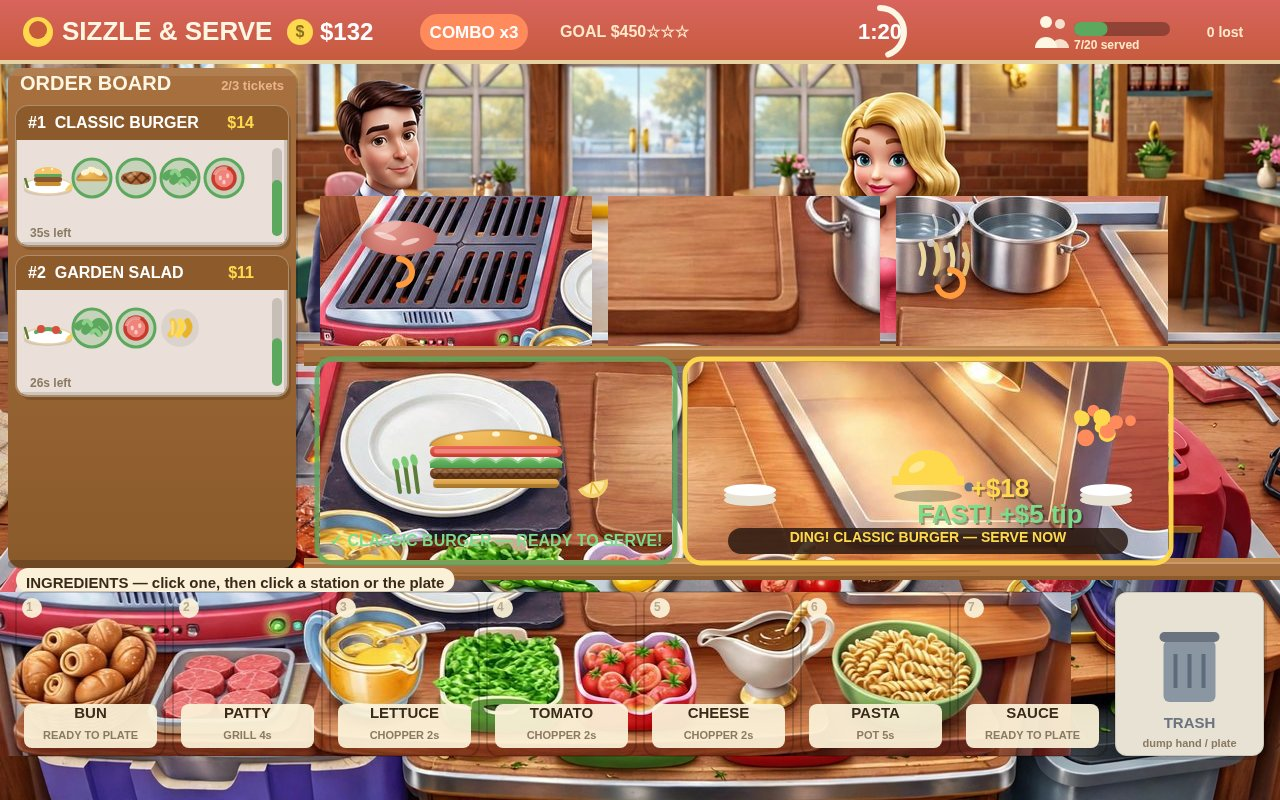
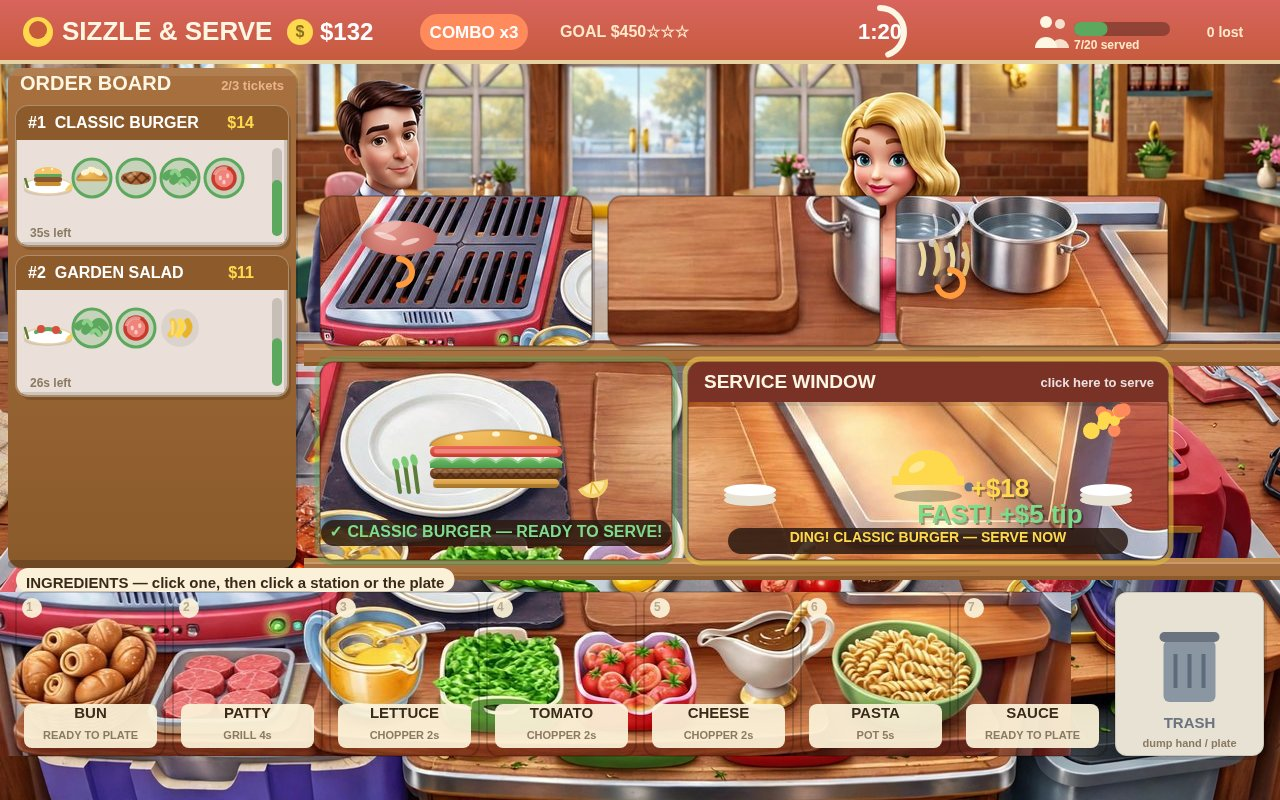
Fix 3 defects: framed photo panels (rounded corners + shadow + border), plate hint text on dark pill, SERVICE WINDOW title bar restored in photo mode

Changed region(s): [[0.2188, 0.375, 0.9375, 0.7188], [0.6875, 0.2812, 0.7188, 0.3438]]

diff --git a/game/src/render.js b/game/src/render.js
@@ -237,6 +237,24 @@ for (const [key, file] of Object.entries(SPRITE_FILES)) {
   img.onerror = () => { if (++spritesSettled === Object.keys(SPRITE_FILES).length) window.__spritesReady = true; };
   img.src = file;
 }
+// Photo tiles as framed panels: rounded corners + drop shadow + thin border,
+// so a 3D photo reads as a panel sitting on the counter — not a pasted
+// rectangle slicing through the staff behind it. Clipping never moves the
+// image, so the photo-aligned food anchors below stay valid.
+function drawPhotoPanel(ctx, img, rect) {
+  ctx.fillStyle = 'rgba(0,0,0,0.18)';
+  rr(ctx, rect.x + 3, rect.y + 5, rect.w, rect.h, 14);
+  ctx.fill();
+  ctx.save();
+  rr(ctx, rect.x, rect.y, rect.w, rect.h, 14);
+  ctx.clip();
+  ctx.drawImage(img, rect.x, rect.y, rect.w, rect.h);
+  ctx.restore();
+  ctx.strokeStyle = 'rgba(60,35,20,0.35)';
+  ctx.lineWidth = 2;
+  rr(ctx, rect.x, rect.y, rect.w, rect.h, 14);
+  ctx.stroke();
+}
 // Food anchors measured from the 3D scene (photo slot centres). The layout
 // rects never move - only the food's draw position is photo-aligned;
 // clicks still use the whole station rect.
@@ -882,7 +900,7 @@ function drawStationBase(ctx, rect, label, sub, accent) {
 function drawGrill(ctx, hover) {
   const photo = sprites.grill.ready;
   if (photo) {
-    ctx.drawImage(sprites.grill.img, GRILL.x, GRILL.y, GRILL.w, GRILL.h);
+    drawPhotoPanel(ctx, sprites.grill.img, GRILL);
   } else {
   drawStationBase(ctx, GRILL, 'GRILL', 'patty · 4s', '#c65a3c');
   // Red machine frame + silver rim + dark bed, like the ref grill.
@@ -1000,7 +1018,7 @@ function drawGrill(ctx, hover) {
 function drawChopper(ctx, hover) {
   const photo = sprites.chopper.ready;
   if (photo) {
-    ctx.drawImage(sprites.chopper.img, CHOPPER.x, CHOPPER.y, CHOPPER.w, CHOPPER.h);
+    drawPhotoPanel(ctx, sprites.chopper.img, CHOPPER);
   } else {
   drawStationBase(ctx, CHOPPER, 'CHOPPING BOARD', 'veg · 2s', '#7a9e4b');
   ctx.fillStyle = '#d9b078';
@@ -1082,7 +1100,7 @@ function drawChopper(ctx, hover) {
 
 function drawPot(ctx, hover) {
   if (sprites.pots.ready) {
-    ctx.drawImage(sprites.pots.img, POT.x, POT.y, POT.w, POT.h);
+    drawPhotoPanel(ctx, sprites.pots.img, POT);
   } else {
     drawStationBase(ctx, POT, 'PASTA POT', 'pasta · 5s', '#4a7fb5');
   }
@@ -1165,7 +1183,7 @@ function drawPlate(ctx, hover) {
   const cx = PLATE.x + PLATE.w / 2;
   const cy = PLATE.y + 118;
   if (sprites.plate.ready) {
-    ctx.drawImage(sprites.plate.img, PLATE.x, PLATE.y, PLATE.w, PLATE.h);
+    drawPhotoPanel(ctx, sprites.plate.img, PLATE);
   } else {
   ctx.fillStyle = 'rgba(0,0,0,0.18)';
   rr(ctx, PLATE.x + 3, PLATE.y + 5, PLATE.w, PLATE.h, 14);
@@ -1206,8 +1224,13 @@ function drawPlate(ctx, hover) {
   ctx.stroke();
   }
   if (Game.plate.length === 0) {
-    text(ctx, 'empty plate — click ingredients,', cx, cy - 6, 15, '#b9a98e', 'center');
-    text(ctx, 'then click the plate to stack', cx, cy + 16, 15, '#b9a98e', 'center');
+    // Dark pill behind the hint — the 3D plate photo underneath is busy
+    // (bowls at its edges), beige text on it was unreadable.
+    ctx.fillStyle = 'rgba(42,26,18,0.85)';
+    rr(ctx, cx - 175, cy - 26, 350, 56, 13);
+    ctx.fill();
+    text(ctx, 'empty plate — click ingredients,', cx, cy - 6, 15, '#f2e6cf', 'center');
+    text(ctx, 'then click the plate to stack', cx, cy + 16, 15, '#f2e6cf', 'center');
   } else {
     drawPlateStack(ctx, Game.plate, cx, cy);
     drawPlateGarnish(ctx, cx, cy, Game.plate.some((p) => p.kind === 'bun'), Game.plate.some((p) => p.kind === 'pasta'));
@@ -1218,9 +1241,15 @@ function drawPlate(ctx, hover) {
     ctx.lineWidth = 5;
     rr(ctx, PLATE.x - 3, PLATE.y - 3, PLATE.w + 6, PLATE.h + 6, 16);
     ctx.stroke();
-    text(ctx, '✓ ' + recipeById(match.recipeId).name.toUpperCase() + ' — READY TO SERVE!', cx, PLATE.y + PLATE.h - 18, 16, '#7ddc8a', 'center');
+    ctx.fillStyle = 'rgba(42,26,18,0.85)';
+    rr(ctx, cx - 175, PLATE.y + PLATE.h - 40, 350, 26, 13);
+    ctx.fill();
+    text(ctx, '✓ ' + recipeById(match.recipeId).name.toUpperCase() + ' — READY TO SERVE!', cx, PLATE.y + PLATE.h - 27, 16, '#7ddc8a', 'center');
   } else if (Game.plate.length > 0) {
-    text(ctx, 'keep stacking — check the tickets', cx, PLATE.y + PLATE.h - 18, 14, '#c9bda6', 'center');
+    ctx.fillStyle = 'rgba(42,26,18,0.85)';
+    rr(ctx, cx - 175, PLATE.y + PLATE.h - 40, 350, 26, 13);
+    ctx.fill();
+    text(ctx, 'keep stacking — check the tickets', cx, PLATE.y + PLATE.h - 27, 14, '#f2e6cf', 'center');
   }
   if (hover) {
     ctx.strokeStyle = '#ffd94d';
@@ -1438,7 +1467,7 @@ function drawServe(ctx, hover) {
   const match = matchingOrder();
   const shelfY = SERVE.y + SERVE.h - 58;
   if (sprites.serve.ready) {
-    ctx.drawImage(sprites.serve.img, SERVE.x, SERVE.y, SERVE.w, SERVE.h);
+    drawPhotoPanel(ctx, sprites.serve.img, SERVE);
   } else {
   ctx.fillStyle = 'rgba(0,0,0,0.18)';
   rr(ctx, SERVE.x + 3, SERVE.y + 5, SERVE.w, SERVE.h, 14);
@@ -1497,6 +1526,19 @@ function drawServe(ctx, hover) {
   ctx.fillRect(SERVE.x + 14, shelfY, SERVE.w - 28, 3);
   ctx.fillStyle = '#8d5a2b';
   ctx.fillRect(SERVE.x + 14, shelfY + 10, SERVE.w - 28, 2);
+  }
+  if (sprites.serve.ready) {
+    // Title bar over the photo — the vector branch above draws its own
+    // title + awning, photo mode had none, so the window was unlabelled.
+    // Same bar pattern as the station headers.
+    ctx.fillStyle = '#7a3226';
+    rr(ctx, SERVE.x, SERVE.y, SERVE.w, 40, 14);
+    ctx.fill();
+    ctx.fillRect(SERVE.x, SERVE.y + 26, SERVE.w, 14);
+    ctx.fillStyle = 'rgba(0,0,0,0.10)';
+    ctx.fillRect(SERVE.x, SERVE.y + 40, SERVE.w, 4);
+    text(ctx, 'SERVICE WINDOW', SERVE.x + 16, SERVE.y + 21, 19, '#fdf6e3');
+    text(ctx, 'click here to serve', SERVE.x + SERVE.w - 14, SERVE.y + 21, 13, 'rgba(255,255,255,0.85)', 'right');
   }
   for (let i = 0; i < 3; i++) {
     ctx.fillStyle = i === 2 ? '#ffffff' : '#e8e2d4';
